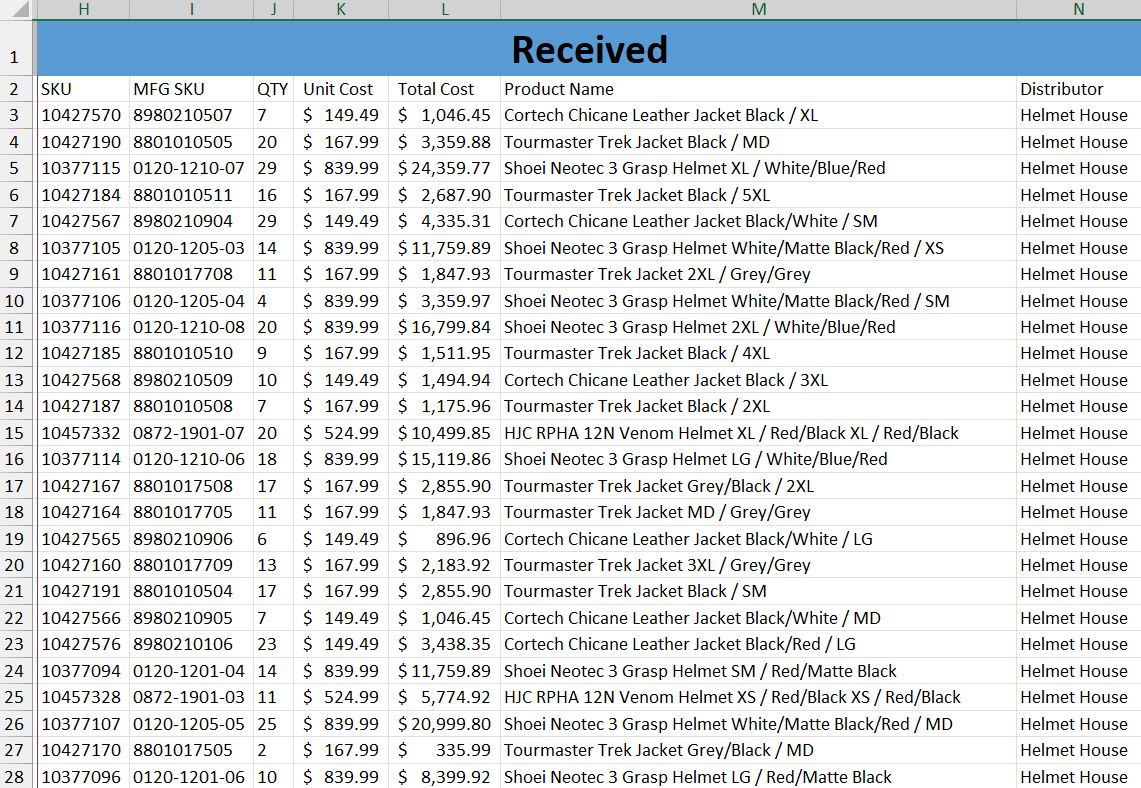
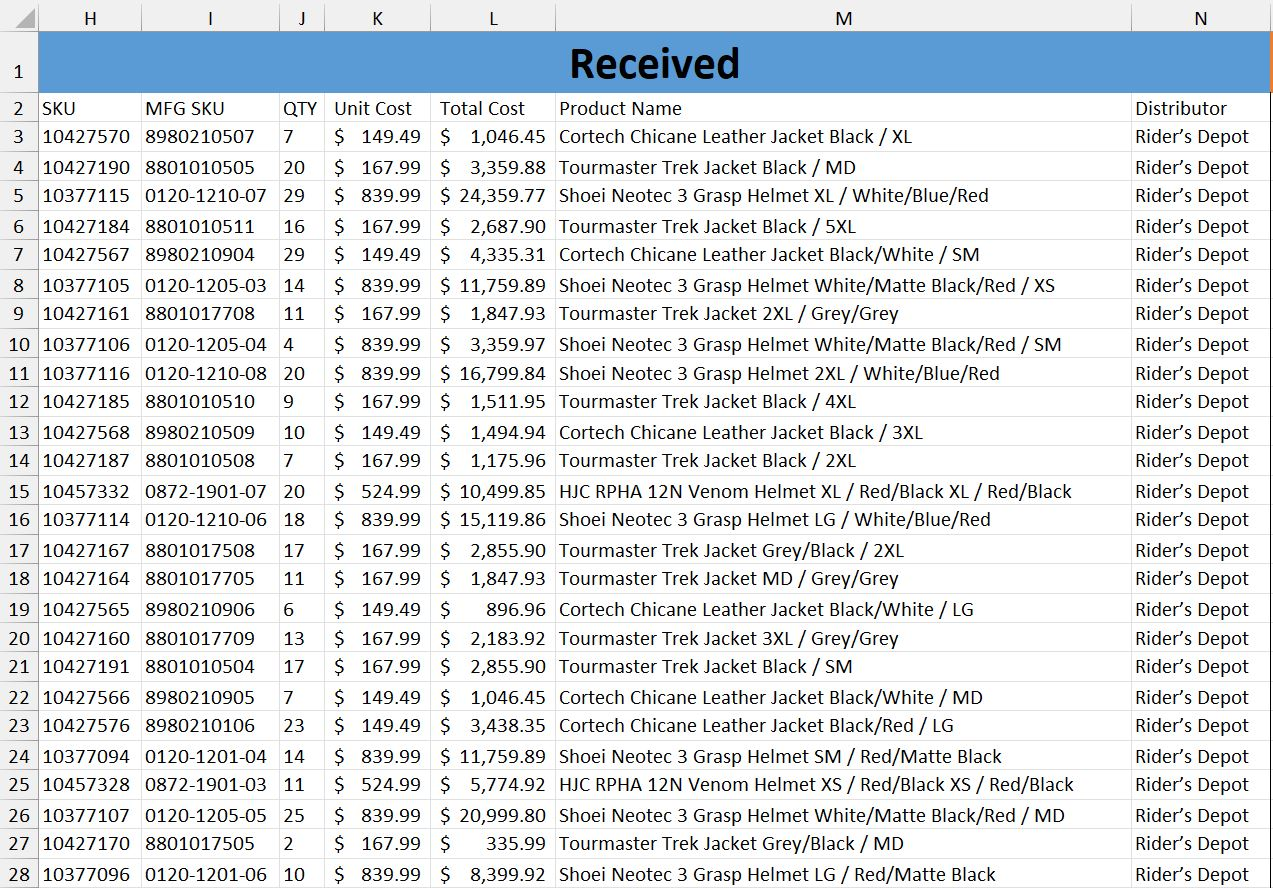
changed vendor name and updated screenshots

diff --git a/invoice-excel-worksheet.html b/invoice-excel-worksheet.html
@@ -70,7 +70,7 @@
 											 style="width: 1000px; height: auto;" />
 										</a>
 									</span>
-										<h2>Recieved</h2>
+										<h2>Received</h2>
 												<p>
 													TEXT HERE - TEXT HERE - TEXT HERE - TEXT HERE - TEXT HERE - TEXT HERE - TEXT HERE - TEXT HERE - TEXT HERE - TEXT HERE - TEXT HERE - TEXT HERE - TEXT HERE - TEXT HERE - TEXT HERE - TEXT HERE - TEXT HERE - TEXT HERE - 
 												</p>
